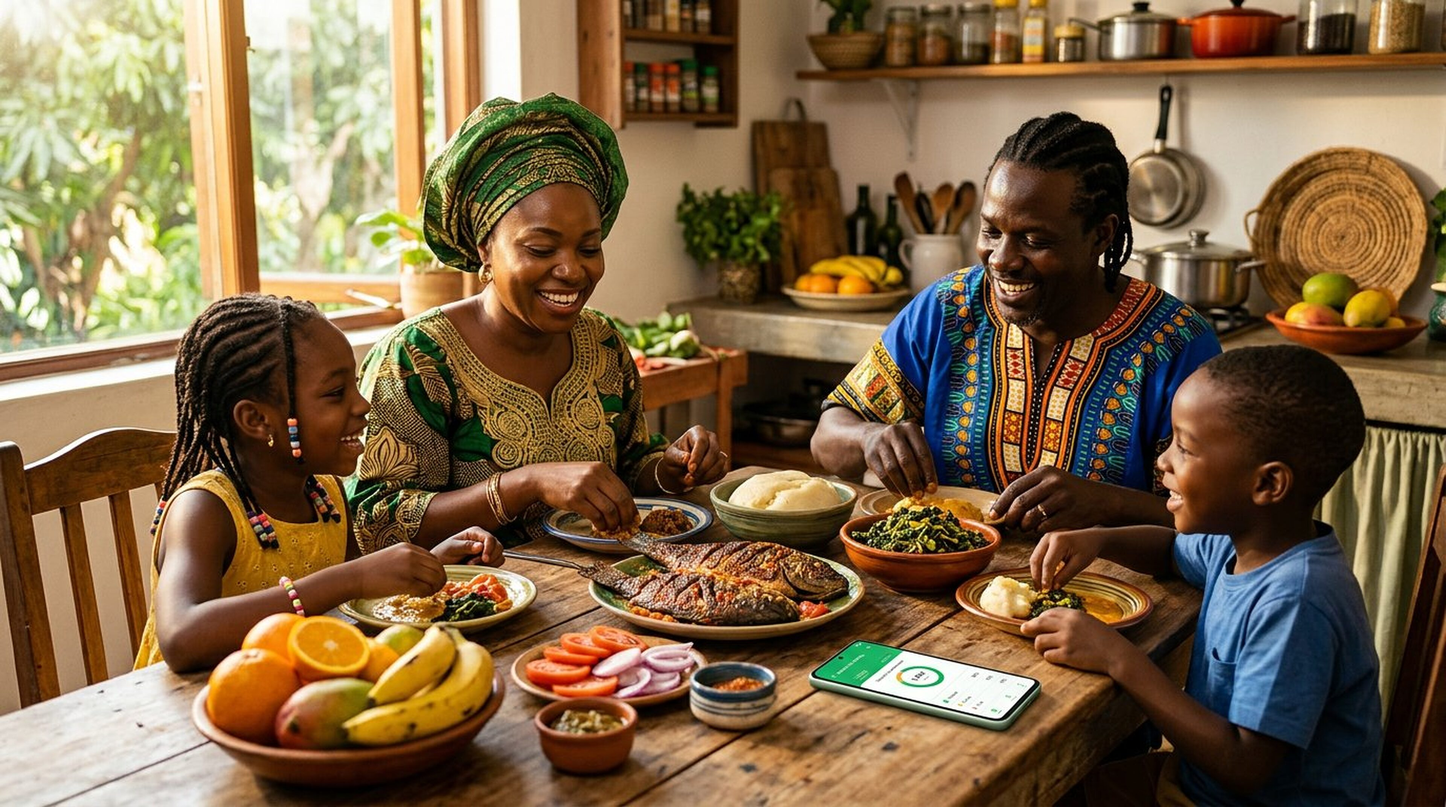
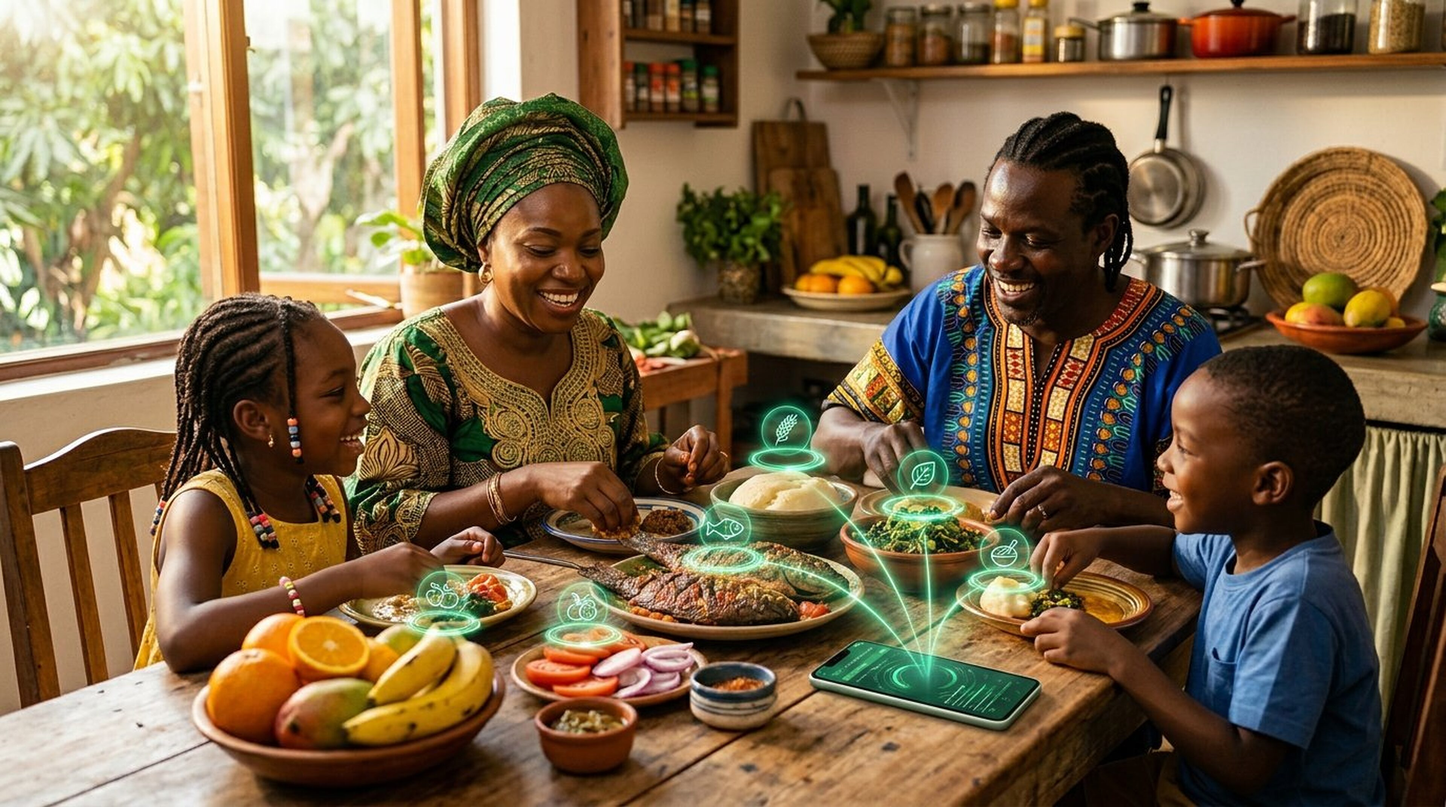
Stakeholders v2: connected-food holograms (citizens) + natural light & international orgs (governments)
- citizens: green holograms over each dish linked by light beams to the nutrition app (connected side).
- governments: bright natural white-lit situation room, one large dashboard screen, UN + partner flags and globe-laurel emblem (international organisations).
- Images overwritten, cache busted via ?v=2 (EN+FR), alts updated. Text unchanged (copy-check: fr/ecosystem zero diff).

diff --git a/fr/ecosystem.html b/fr/ecosystem.html
@@ -13,6 +13,6 @@ footer{padding:42px 0 22px;background:#04150e;color:#9eb5a9}.foot{display:grid;g
 @media(max-width:900px){.links{display:none}.heroGrid,.cloud,.loop{grid-template-columns:1fr}.art{order:-1;height:420px}.grid,.teamGrid{grid-template-columns:1fr 1fr}.arch{grid-template-columns:1fr}.foot{grid-template-columns:1fr 1fr}}
 @media(max-width:600px){.grid,.teamGrid{grid-template-columns:1fr}.hero{padding:70px 0}.hero h1{font-size:46px}.hero p{font-size:16px}.ring{width:310px;height:310px}.core{width:210px;height:210px}.coreIn{width:135px;height:135px}.sat{display:none}.section{padding:70px 0}.ctaBox{padding:38px 20px}.foot{grid-template-columns:1fr}.copy{flex-direction:column}}
[1 lines of base64/hex data omitted]
-<section class="section dark" id="users"><div class="wrap"><div class="head"><div class="kicker">Acteurs</div><h2>Des besoins différents. Une seule couche de données.</h2></div><div class="grid"><div class="card stake" data-stake="citizens"><figure class="stMedia"><img class="stImg" src="../assets/img/stake-citizens.jpg" srcset="../assets/img/stake-citizens.jpg 1376w, ../assets/img/stake-citizens-4k.jpg 3840w" sizes="(max-width:600px) 92vw, (max-width:900px) 46vw, 380px" alt="Vue photoréaliste d'une famille ouest-africaine partageant un repas équilibré et coloré à la maison, un téléphone affichant leur application nutritionnelle personnelle verte." loading="lazy" decoding="async"><span class="stNum" aria-hidden="true"></span><span class="stTag" aria-hidden="true"></span></figure><div class="stBody"><div class="ico">👥</div><h3>Citoyens</h3><p>Individus, parents, familles et enfants avec des parcours nutritionnels personnalisés.</p></div></div><div class="card stake" data-stake="governments"><figure class="stMedia"><img class="stImg" src="../assets/img/stake-governments.jpg" srcset="../assets/img/stake-governments.jpg 1376w, ../assets/img/stake-governments-4k.jpg 3840w" sizes="(max-width:600px) 92vw, (max-width:900px) 46vw, 380px" alt="Vue photoréaliste d'un centre de commandement santé national où des analystes lisent des tableaux de bord nutritionnels de la population sur un grand mur d'écrans verts." loading="lazy" decoding="async"><span class="stNum" aria-hidden="true"></span><span class="stTag" aria-hidden="true"></span></figure><div class="stBody"><div class="ico">🏛</div><h3>Gouvernements</h3><p>Centre de commandement santé, intelligence agricole et tableaux de bord nutritionnels de la population.</p></div></div><div class="card stake" data-stake="science"><figure class="stMedia"><img class="stImg" src="../assets/img/stake-science.jpg" srcset="../assets/img/stake-science.jpg 1376w, ../assets/img/stake-science-4k.jpg 3840w" sizes="(max-width:600px) 92vw, (max-width:900px) 46vw, 380px" alt="Vue photoréaliste de chercheurs en nutrition étudiant, dans un laboratoire lumineux, un graphe de preuves lumineux reliant aliments, nutriments et résultats de santé." loading="lazy" decoding="async"><span class="stNum" aria-hidden="true"></span><span class="stTag" aria-hidden="true"></span></figure><div class="stBody"><div class="ico">🔬</div><h3>Science</h3><p>Chercheurs, universités et laboratoires connectés aux preuves et aux jeux de données approuvés.</p></div></div><div class="card stake" data-stake="professionals"><figure class="stMedia"><img class="stImg" src="../assets/img/stake-professionals.jpg" srcset="../assets/img/stake-professionals.jpg 1376w, ../assets/img/stake-professionals-4k.jpg 3840w" sizes="(max-width:600px) 92vw, (max-width:900px) 46vw, 380px" alt="Vue photoréaliste d'une nutritionniste en clinique présentant à une patiente un tableau de bord nutritionnel vert sur tablette." loading="lazy" decoding="async"><span class="stNum" aria-hidden="true"></span><span class="stTag" aria-hidden="true"></span></figure><div class="stBody"><div class="ico">🩺</div><h3>Professionnels</h3><p>Nutritionnistes, diététiciens, cliniques et hôpitaux avec accès autorisé aux données des patients.</p></div></div></div></div></section>
+<section class="section dark" id="users"><div class="wrap"><div class="head"><div class="kicker">Acteurs</div><h2>Des besoins différents. Une seule couche de données.</h2></div><div class="grid"><div class="card stake" data-stake="citizens"><figure class="stMedia"><img class="stImg" src="../assets/img/stake-citizens.jpg?v=2" srcset="../assets/img/stake-citizens.jpg?v=2 1376w, ../assets/img/stake-citizens-4k.jpg?v=2 3840w" sizes="(max-width:600px) 92vw, (max-width:900px) 46vw, 380px" alt="Vue photoréaliste d'une famille ouest-africaine partageant un repas équilibré et coloré à la maison, des hologrammes verts au-dessus de chaque plat reliant les aliments à leur application nutritionnelle sur un téléphone." loading="lazy" decoding="async"><span class="stNum" aria-hidden="true"></span><span class="stTag" aria-hidden="true"></span></figure><div class="stBody"><div class="ico">👥</div><h3>Citoyens</h3><p>Individus, parents, familles et enfants avec des parcours nutritionnels personnalisés.</p></div></div><div class="card stake" data-stake="governments"><figure class="stMedia"><img class="stImg" src="../assets/img/stake-governments.jpg?v=2" srcset="../assets/img/stake-governments.jpg?v=2 1376w, ../assets/img/stake-governments-4k.jpg?v=2 3840w" sizes="(max-width:600px) 92vw, (max-width:900px) 46vw, 380px" alt="Vue photoréaliste d'une salle de situation nutritionnelle gouvernementale lumineuse à lumière blanche naturelle, un grand écran de tableaux de bord et des officiels assis avec les drapeaux des Nations Unies et des organisations partenaires." loading="lazy" decoding="async"><span class="stNum" aria-hidden="true"></span><span class="stTag" aria-hidden="true"></span></figure><div class="stBody"><div class="ico">🏛</div><h3>Gouvernements</h3><p>Centre de commandement santé, intelligence agricole et tableaux de bord nutritionnels de la population.</p></div></div><div class="card stake" data-stake="science"><figure class="stMedia"><img class="stImg" src="../assets/img/stake-science.jpg" srcset="../assets/img/stake-science.jpg 1376w, ../assets/img/stake-science-4k.jpg 3840w" sizes="(max-width:600px) 92vw, (max-width:900px) 46vw, 380px" alt="Vue photoréaliste de chercheurs en nutrition étudiant, dans un laboratoire lumineux, un graphe de preuves lumineux reliant aliments, nutriments et résultats de santé." loading="lazy" decoding="async"><span class="stNum" aria-hidden="true"></span><span class="stTag" aria-hidden="true"></span></figure><div class="stBody"><div class="ico">🔬</div><h3>Science</h3><p>Chercheurs, universités et laboratoires connectés aux preuves et aux jeux de données approuvés.</p></div></div><div class="card stake" data-stake="professionals"><figure class="stMedia"><img class="stImg" src="../assets/img/stake-professionals.jpg" srcset="../assets/img/stake-professionals.jpg 1376w, ../assets/img/stake-professionals-4k.jpg 3840w" sizes="(max-width:600px) 92vw, (max-width:900px) 46vw, 380px" alt="Vue photoréaliste d'une nutritionniste en clinique présentant à une patiente un tableau de bord nutritionnel vert sur tablette." loading="lazy" decoding="async"><span class="stNum" aria-hidden="true"></span><span class="stTag" aria-hidden="true"></span></figure><div class="stBody"><div class="ico">🩺</div><h3>Professionnels</h3><p>Nutritionnistes, diététiciens, cliniques et hôpitaux avec accès autorisé aux données des patients.</p></div></div></div></div></section>
 <section class="section light"><div class="wrap"><div class="head"><div class="kicker">Intelligence gouvernementale</div><h2>Voir le système alimentaire à l'échelle de la population.</h2></div><div class="grid"><div class="card"><div class="ico">MINISTÈRE DE LA SANTÉ</div><h3>Centre de commandement santé</h3><p>Indicateurs de malnutrition, anémie, diabète, hypertension, obésité, cancer, maladies rénales et cardiovasculaires.</p></div><div class="card"><div class="ico">AGRICULTURE</div><h3>Centre d'intelligence alimentaire</h3><p>Production, consommation, besoins nutritionnels, déficits et analyse géographique.</p></div><div class="card"><div class="ico">SIG</div><h3>Intelligence spatiale</h3><p>Pays → région → district → communauté → établissement ou zone de production.</p></div></div></div></section>
 <section class="section dark"><div class="wrap"><div class="head"><div class="kicker">La confiance dès la conception</div><h2>Accès basé sur les rôles et contrôle au niveau national.</h2><p>L'architecture cible comprend le contrôle d'accès par rôles, la gestion du consentement, la minimisation des données, le chiffrement, les journaux d'audit, la pseudonymisation et l'isolation des environnements.</p></div></div></section><footer><div class="wrap foot"><div><b style="font-size:21px;color:#fff">NUTRI.N°1</b><p style="font-size:12px">Infrastructure africaine de l'intelligence alimentaire et nutritionnelle — évoluant vers une Plateforme durable d'agro-transformation et de nutrition en Afrique de l'Ouest.</p></div><div><h4>Plateforme</h4><a href="platform.html">Nutrition numérique</a><a href="intelligence.html">Base de connaissances alimentaire africaine</a><a href="ecosystem.html">Acteurs</a></div><div><h4>Entreprises</h4><a href="agribusiness.html">Agro-industrie</a><a href="team.html">Équipe</a><a href="index.html#contact">Contact</a></div></div><div class="wrap copy"><span>© 2026 NUTRI.N°1</span><span>Conçue en Afrique de l’Ouest • Pensée pour l’Afrique</span></div></footer><script>const o=new IntersectionObserver(e=>e.forEach(x=>x.isIntersecting&&(x.target.style.opacity=1)),{threshold:.1});document.querySelectorAll(".card,.box,.person,.loopbox").forEach(x=>{x.style.opacity=0;x.style.transition="opacity .7s,transform .7s";o.observe(x)})</script><script src="../assets/nutri4k.js" defer></script></body></html>

diff --git a/ecosystem.html b/ecosystem.html
@@ -42,6 +42,6 @@ display:grid;place-items:center;overflow:hidden;border:1px solid #ffffff15}.v4-a
 @media(max-width:800px){.v4-app,.v4-loop{grid-template-columns:1fr}.v4-orb{min-height:410px}.v4-orbit.o2{width:380px;height:380px}.v4-orbit.o1{width:300px;height:300px}}
 @media(max-width:520px){.v4-orb .planet{width:205px;height:205px}.v4-orb .planet>div{width:130px;height:130px}.v4-africa{font-size:80px}}
[1 lines of base64/hex data omitted]
-<section class="section dark" id="users"><div class="wrap"><div class="head"><div class="kicker">Stakeholders</div><h2>Different needs. One data layer.</h2></div><div class="grid"><div class="card stake v4-reveal" data-stake="citizens"><figure class="stMedia"><img class="stImg" src="assets/img/stake-citizens.jpg" srcset="assets/img/stake-citizens.jpg 1376w, assets/img/stake-citizens-4k.jpg 3840w" sizes="(max-width:600px) 92vw, (max-width:900px) 46vw, 380px" alt="Photorealistic view of a West African family sharing a colourful balanced meal at home while a phone shows their green personal nutrition app." loading="lazy" decoding="async"><span class="stNum" aria-hidden="true"></span><span class="stTag" aria-hidden="true"></span></figure><div class="stBody"><div class="ico">👥</div><h3>Citizens</h3><p>Individuals, parents, families and children with personalized nutrition journeys.</p></div></div><div class="card stake v4-reveal" data-stake="governments"><figure class="stMedia"><img class="stImg" src="assets/img/stake-governments.jpg" srcset="assets/img/stake-governments.jpg 1376w, assets/img/stake-governments-4k.jpg 3840w" sizes="(max-width:600px) 92vw, (max-width:900px) 46vw, 380px" alt="Photorealistic view of a national health command centre with analysts reading green population-nutrition dashboards on a large video wall." loading="lazy" decoding="async"><span class="stNum" aria-hidden="true"></span><span class="stTag" aria-hidden="true"></span></figure><div class="stBody"><div class="ico">🏛</div><h3>Governments</h3><p>Health Command Center, Agriculture Intelligence and population nutrition dashboards.</p></div></div><div class="card stake v4-reveal" data-stake="science"><figure class="stMedia"><img class="stImg" src="assets/img/stake-science.jpg" srcset="assets/img/stake-science.jpg 1376w, assets/img/stake-science-4k.jpg 3840w" sizes="(max-width:600px) 92vw, (max-width:900px) 46vw, 380px" alt="Photorealistic view of nutrition researchers in a bright laboratory studying a glowing evidence graph of foods, nutrients and health outcomes." loading="lazy" decoding="async"><span class="stNum" aria-hidden="true"></span><span class="stTag" aria-hidden="true"></span></figure><div class="stBody"><div class="ico">🔬</div><h3>Science</h3><p>Researchers, universities and laboratories connected to evidence and approved datasets.</p></div></div><div class="card stake v4-reveal" data-stake="professionals"><figure class="stMedia"><img class="stImg" src="assets/img/stake-professionals.jpg" srcset="assets/img/stake-professionals.jpg 1376w, assets/img/stake-professionals-4k.jpg 3840w" sizes="(max-width:600px) 92vw, (max-width:900px) 46vw, 380px" alt="Photorealistic view of a nutritionist in a clinic reviewing a green patient nutrition dashboard on a tablet with a patient." loading="lazy" decoding="async"><span class="stNum" aria-hidden="true"></span><span class="stTag" aria-hidden="true"></span></figure><div class="stBody"><div class="ico">🩺</div><h3>Professionals</h3><p>Nutritionists, dietitians, clinics and hospitals with authorized patient access.</p></div></div></div></div></section>
+<section class="section dark" id="users"><div class="wrap"><div class="head"><div class="kicker">Stakeholders</div><h2>Different needs. One data layer.</h2></div><div class="grid"><div class="card stake v4-reveal" data-stake="citizens"><figure class="stMedia"><img class="stImg" src="assets/img/stake-citizens.jpg?v=2" srcset="assets/img/stake-citizens.jpg?v=2 1376w, assets/img/stake-citizens-4k.jpg?v=2 3840w" sizes="(max-width:600px) 92vw, (max-width:900px) 46vw, 380px" alt="Photorealistic view of a West African family sharing a colourful balanced meal at home while green holograms above each dish connect the foods to their nutrition app on a phone." loading="lazy" decoding="async"><span class="stNum" aria-hidden="true"></span><span class="stTag" aria-hidden="true"></span></figure><div class="stBody"><div class="ico">👥</div><h3>Citizens</h3><p>Individuals, parents, families and children with personalized nutrition journeys.</p></div></div><div class="card stake v4-reveal" data-stake="governments"><figure class="stMedia"><img class="stImg" src="assets/img/stake-governments.jpg?v=2" srcset="assets/img/stake-governments.jpg?v=2 1376w, assets/img/stake-governments-4k.jpg?v=2 3840w" sizes="(max-width:600px) 92vw, (max-width:900px) 46vw, 380px" alt="Photorealistic view of a bright government nutrition situation room with natural white light, a large dashboard screen and officials seated with United Nations and partner organisation flags." loading="lazy" decoding="async"><span class="stNum" aria-hidden="true"></span><span class="stTag" aria-hidden="true"></span></figure><div class="stBody"><div class="ico">🏛</div><h3>Governments</h3><p>Health Command Center, Agriculture Intelligence and population nutrition dashboards.</p></div></div><div class="card stake v4-reveal" data-stake="science"><figure class="stMedia"><img class="stImg" src="assets/img/stake-science.jpg" srcset="assets/img/stake-science.jpg 1376w, assets/img/stake-science-4k.jpg 3840w" sizes="(max-width:600px) 92vw, (max-width:900px) 46vw, 380px" alt="Photorealistic view of nutrition researchers in a bright laboratory studying a glowing evidence graph of foods, nutrients and health outcomes." loading="lazy" decoding="async"><span class="stNum" aria-hidden="true"></span><span class="stTag" aria-hidden="true"></span></figure><div class="stBody"><div class="ico">🔬</div><h3>Science</h3><p>Researchers, universities and laboratories connected to evidence and approved datasets.</p></div></div><div class="card stake v4-reveal" data-stake="professionals"><figure class="stMedia"><img class="stImg" src="assets/img/stake-professionals.jpg" srcset="assets/img/stake-professionals.jpg 1376w, assets/img/stake-professionals-4k.jpg 3840w" sizes="(max-width:600px) 92vw, (max-width:900px) 46vw, 380px" alt="Photorealistic view of a nutritionist in a clinic reviewing a green patient nutrition dashboard on a tablet with a patient." loading="lazy" decoding="async"><span class="stNum" aria-hidden="true"></span><span class="stTag" aria-hidden="true"></span></figure><div class="stBody"><div class="ico">🩺</div><h3>Professionals</h3><p>Nutritionists, dietitians, clinics and hospitals with authorized patient access.</p></div></div></div></div></section>
 <section class="section light"><div class="wrap"><div class="head"><div class="kicker">Government Intelligence</div><h2>See the food system at population scale.</h2></div><div class="grid"><div class="card v4-reveal"><div class="ico">MOH</div><h3>Health Command Center</h3><p>Malnutrition, anemia, diabetes, hypertension, obesity, cancer, renal and cardiovascular indicators.</p></div><div class="card v4-reveal"><div class="ico">AGR</div><h3>Food Intelligence Center</h3><p>Production, consumption, nutrition needs, gaps and geographic analysis.</p></div><div class="card v4-reveal"><div class="ico">GIS</div><h3>Spatial Intelligence</h3><p>Country → region → district → community → facility or production area.</p></div></div></div></section>
 <section class="section dark"><div class="wrap"><div class="head"><div class="kicker">Trust by design</div><h2>Role-based access and country-level control.</h2><p>The target architecture includes RBAC, consent management, data minimization, encryption, audit logs, pseudonymization and tenant isolation.</p></div></div></section><footer><div class="wrap foot"><div><b style="font-size:21px;color:#fff">NUTRI.N°1</b><p style="font-size:12px">Africa's Food & Nutrition Intelligence Infrastructure — evolving into a Sustainable Agro-Processing & Nutrition Platform in West Africa.</p></div><div><h4>Platform</h4><a href="platform.html">Digital Nutrition</a><a href="intelligence.html">African Food Cloud</a><a href="ecosystem.html">Stakeholders</a></div><div><h4>Company</h4><a href="agribusiness.html">Agri-business</a><a href="team.html">Team</a><a href="index.html#contact">Contact</a></div></div><div class="wrap copy"><span>© 2026 NUTRI.N°1</span><span>Built in West Africa • Designed for Africa</span></div></footer><script>const o=new IntersectionObserver(e=>e.forEach(x=>x.isIntersecting&&(x.target.style.opacity=1)),{threshold:.1});document.querySelectorAll(".card,.box,.person,.loopbox").forEach(x=>{x.style.opacity=0;x.style.transition="opacity .7s,transform .7s";o.observe(x)})</script><script src="assets/nutri4k.js" defer></script></body></html>
